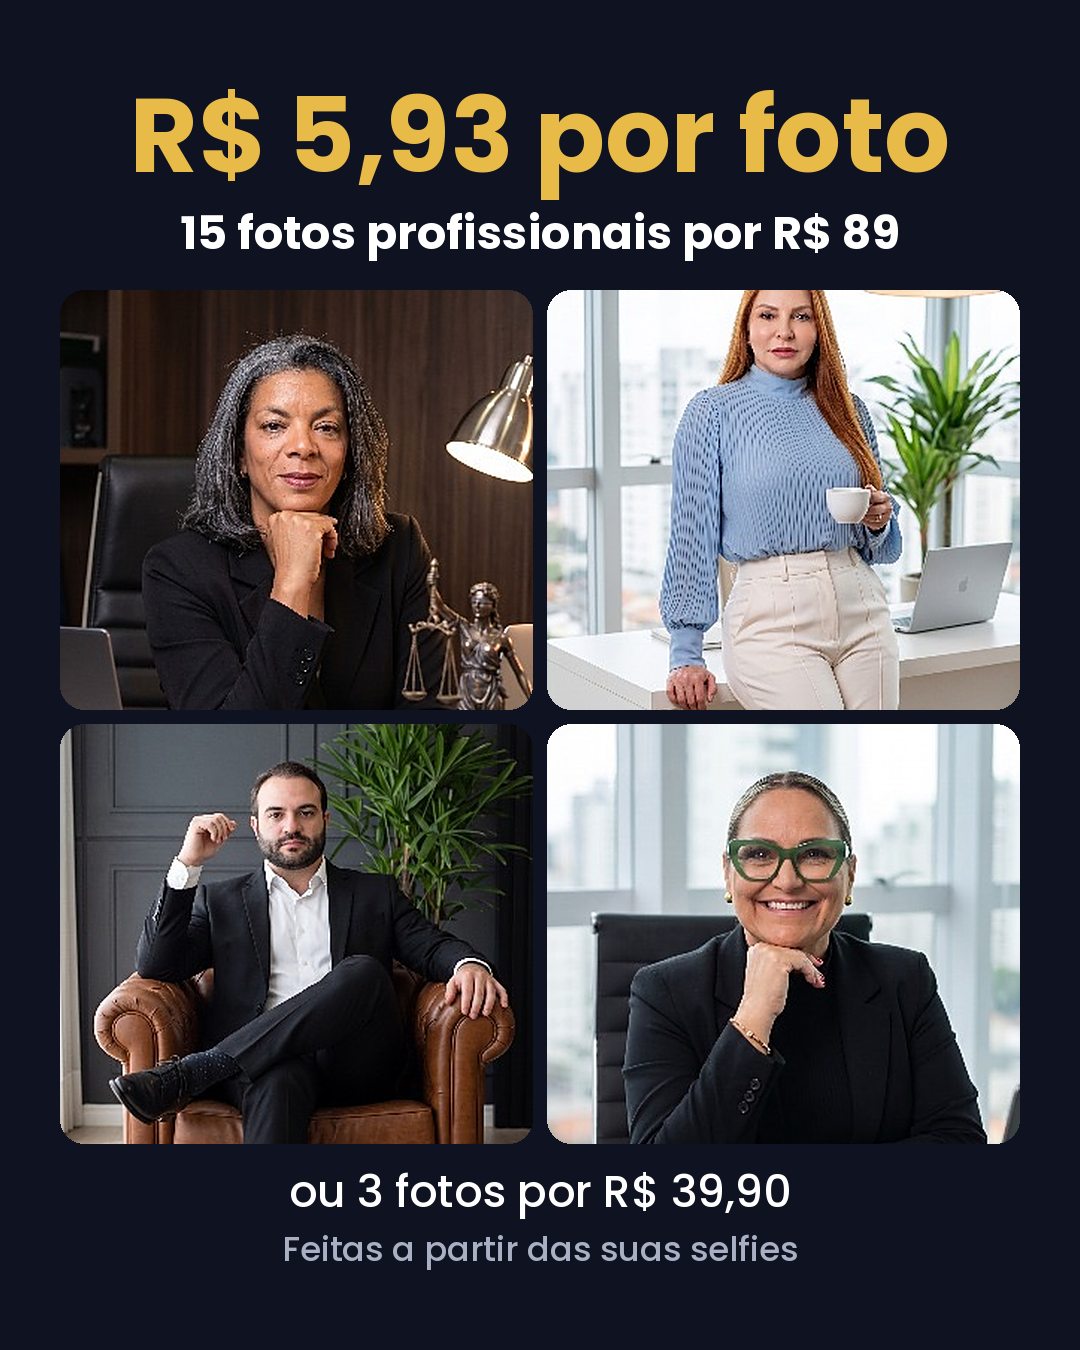
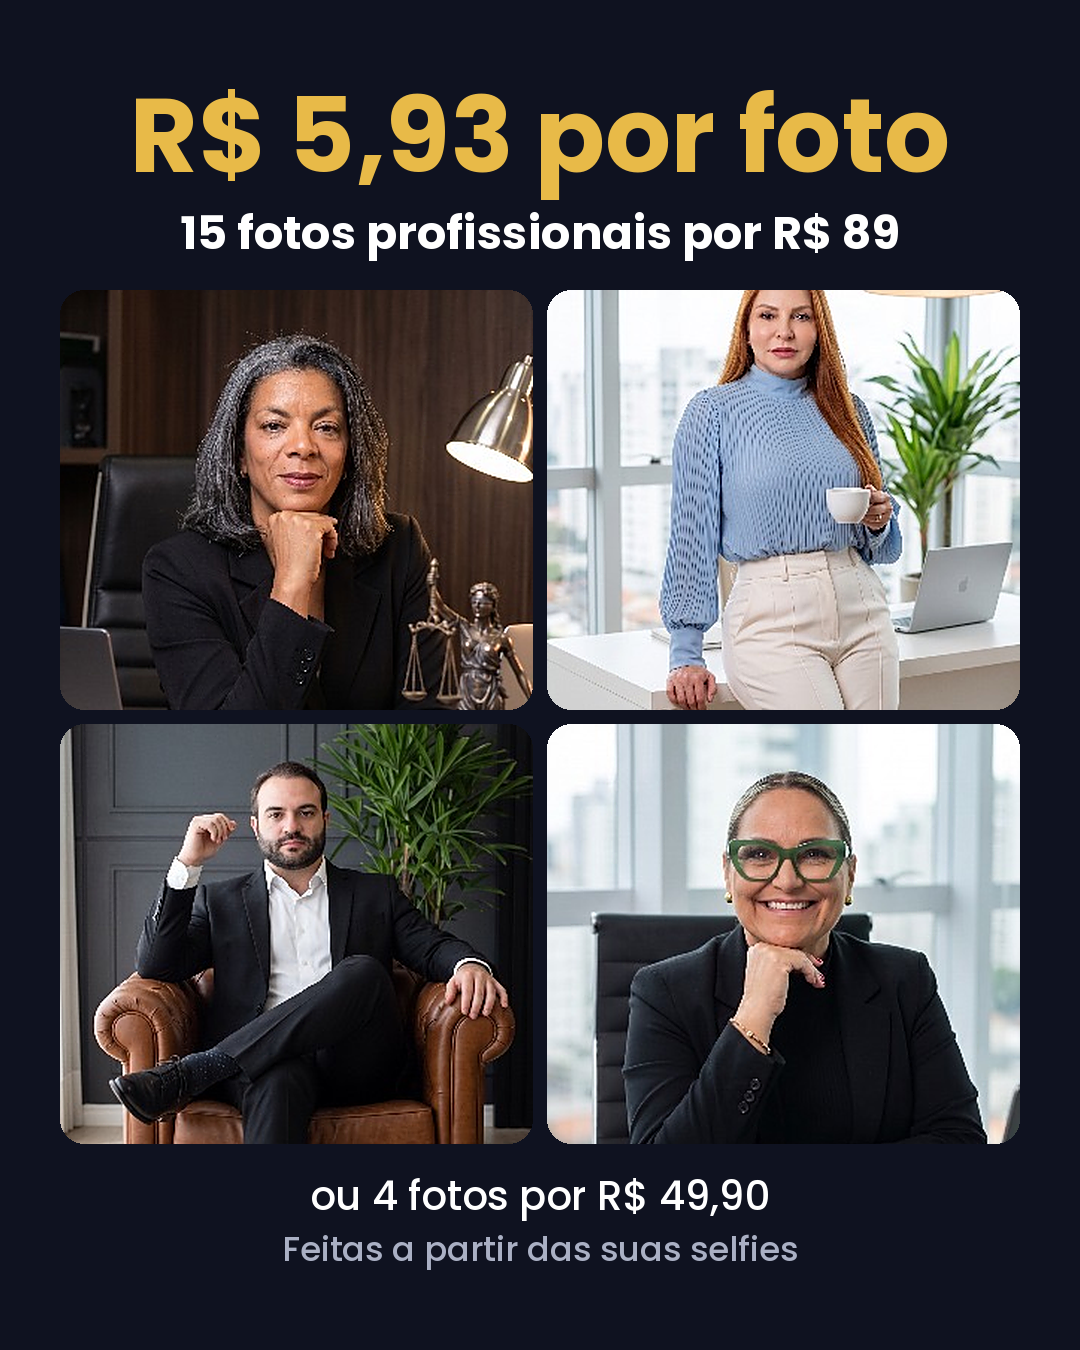
FOTOSADV 16/10: C2-C4 com o preço da página (4 fotos R$49,90)
Claude-Session: https://claude.ai/code/session_0116X1JqsjGjG1aJ2wScZ9pe

Changed region(s): [[0.275, 0.8711, 0.7333, 0.9022]]

diff --git a/fotosadv/2026-10-16-variacoes/gen_variacoes.py b/fotosadv/2026-10-16-variacoes/gen_variacoes.py
@@ -20,10 +20,17 @@ im.save(os.path.join(D, 'FOTOSADV_oferta-grade_H03_v2_pacote249.png'))
 im = o(H03); d = ImageDraw.Draw(im); d.rectangle((0, 50, W, 280), fill=BG)
 ctext(d, 62, 'R$ 5,93 por foto', f('Bold', 104), GOLD)
 ctext(d, 200, '15 fotos profissionais por R$ 89', f('Bold', 46), WHITE)
+# preço da página (Othon 16/10): entrada = 4 fotos R$ 49,90
+d.rectangle((0, 1160, W, 1228), fill=BG); ctext(d, 1168, 'ou 4 fotos por R$ 49,90', f('Medium', 40), WHITE)
 im.save(os.path.join(D, 'FOTOSADV_oferta-grade_H03_v3_593-por-foto.png'))
 
 # H01 v4/v5 — muda SÓ a pessoa da prova (antes/depois); título e barra de preço idênticos ao H01 v2
 for src, out in (('FOTOSADV_dor-selfie_H02_v1_r3.png', 'FOTOSADV_antes-depois_H01_v4_advogado2.png'),
                  ('FOTOSADV_dor-selfie_H02_v2_r3.png', 'FOTOSADV_antes-depois_H01_v5_advogada.png')):
-    im = o(H01); im.paste(o(src).crop((40, 285, 1040, 1080)), (40, 285)); im.save(os.path.join(D, out))
+    im = o(H01); im.paste(o(src).crop((40, 285, 1040, 1080)), (40, 285)); d = ImageDraw.Draw(im)
+    # preço da página (Othon 16/10): célula da esquerda vira 4 fotos R$ 49,90
+    d.rectangle((90, 1122, 528, 1250), fill=WHITE)
+    for y, t, fo, col in ((1128, '4 fotos', f('Regular', 32), (90, 96, 110)), (1172, 'R$ 49,90', f('Bold', 56), BG)):
+        d.text((300 - d.textlength(t, font=fo) / 2, y), t, font=fo, fill=col)
+    im.save(os.path.join(D, out))
 print('ok')
